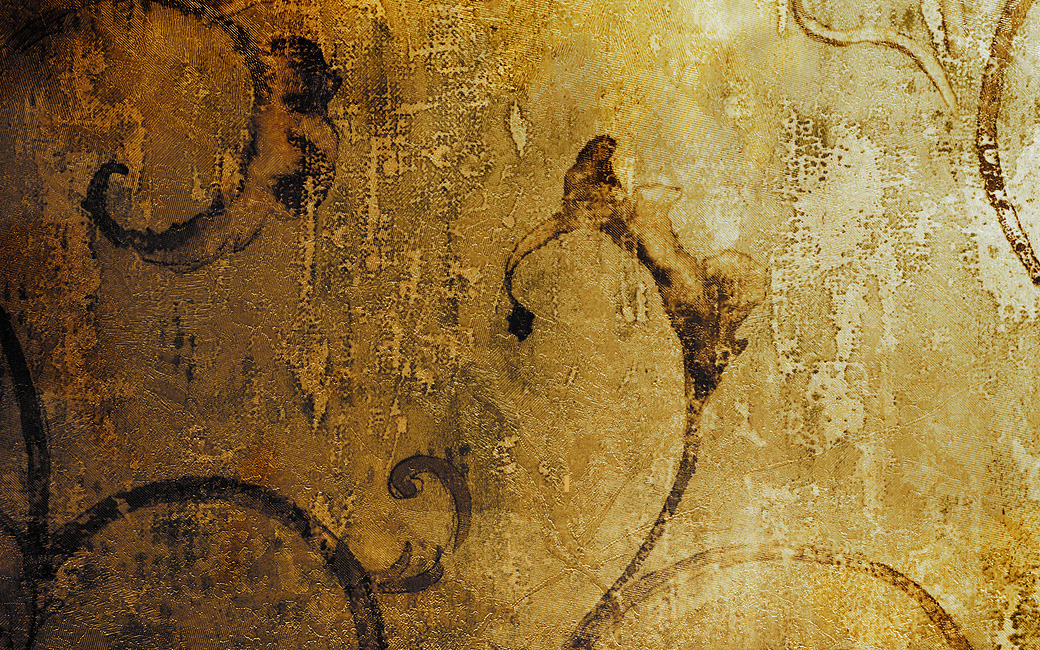
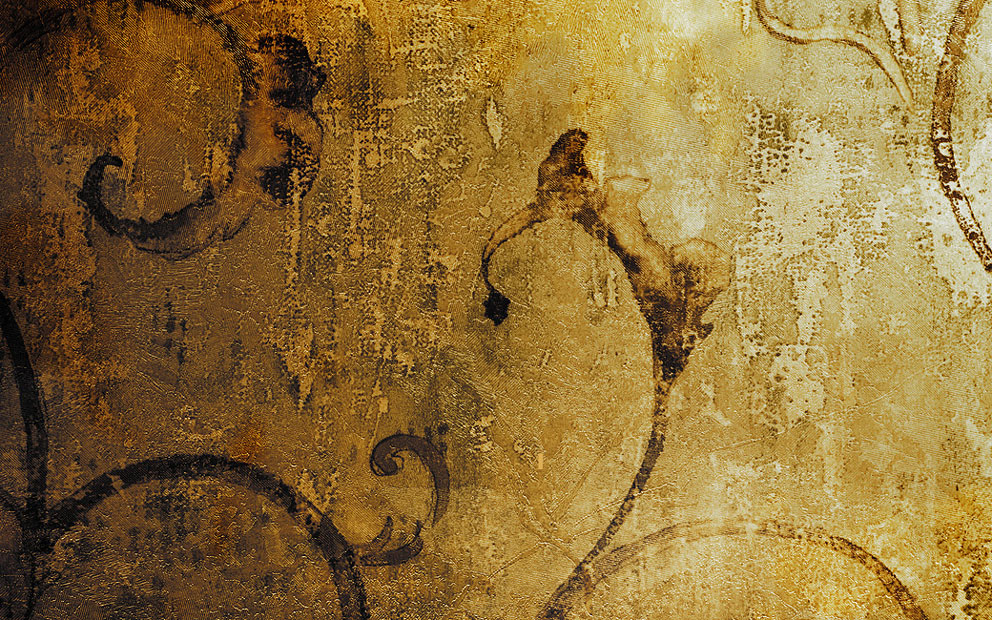
reduce images

diff --git a/style.css b/style.css
@@ -25,7 +25,7 @@ p,h2{
 }
 
 body{
-	background: url('./images/bg.gif') 0 0 repeat #aea997;
+	background: url('./images/bg.jpg') 0 0 repeat #aea997;
 }
 
 div{
@@ -78,7 +78,7 @@ header .logo{
 header .logo img{
 	width: 300px;
 	height: 95px;
-	margin: 20px 325px;
+	margin: 0 325px;
 }
 
 header .menu{
